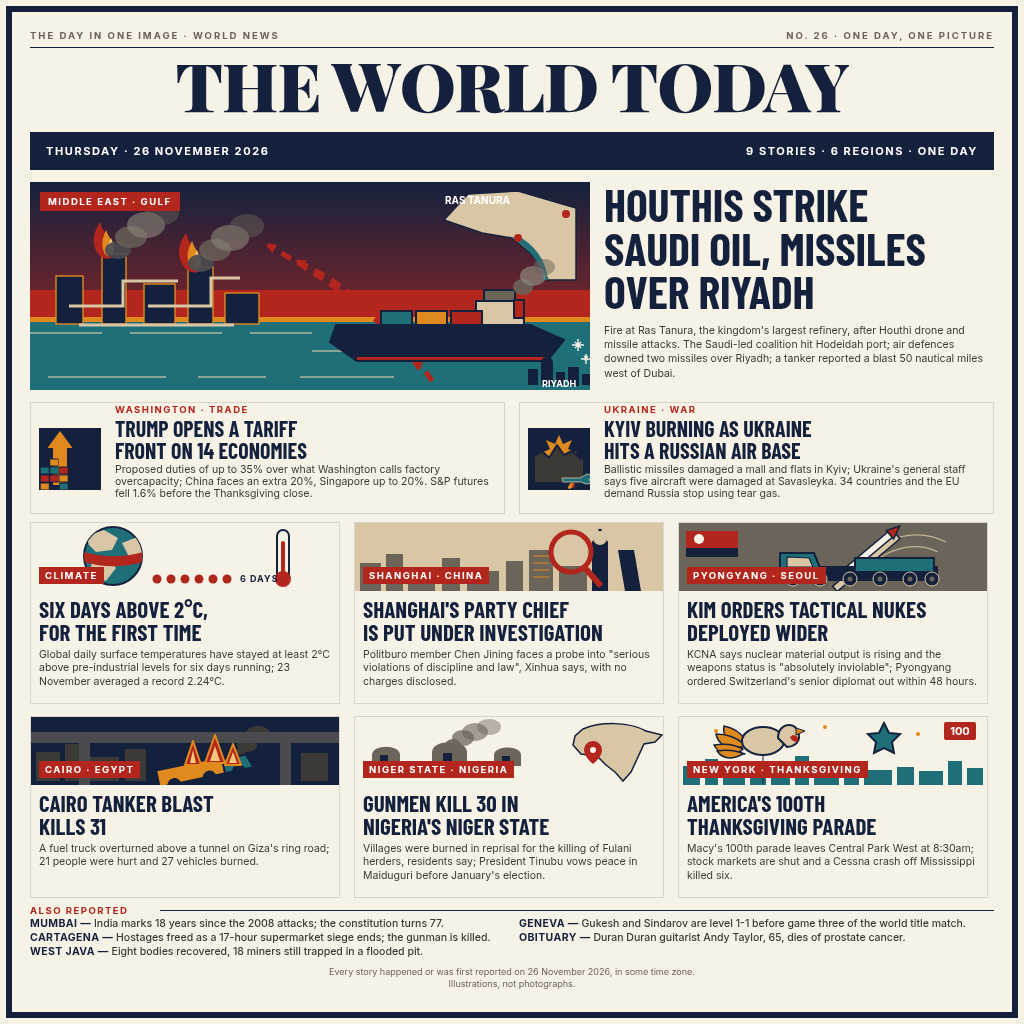
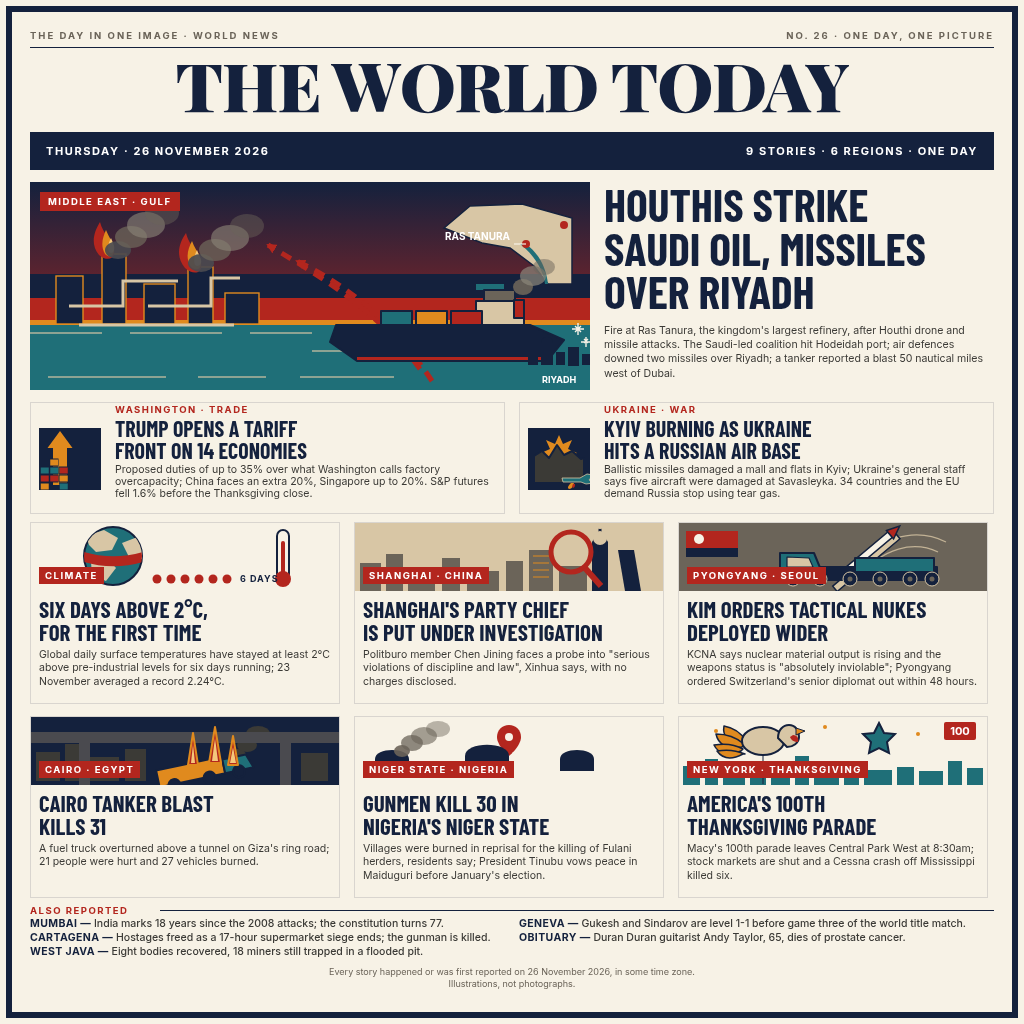
Finish hero map and skyline art pass
- Make the Gulf map geographic and move Riyadh fully into the sea band.
- Step the hero sky through navy, red and amber bands.
- Simplify Nigeria to huts and a pin, separate Thanksgiving motifs, and narrow Egypt's flames.

diff --git a/src/entry.html b/src/entry.html
@@ -66,16 +66,19 @@ svg text{font-family:Inter,Arial,sans-serif}
           <marker id="missileArrow" viewBox="0 0 10 10" refX="8" refY="5" markerWidth="10" markerHeight="10" orient="auto" markerUnits="userSpaceOnUse"><path d="M0 0 10 5 0 10Z" fill="#B3261E"/></marker>
         </defs>
         <rect width="560" height="208" fill="url(#gulfSky)"/>
-        <rect y="108" width="560" height="27" fill="#B3261E"/>
-        <rect y="135" width="560" height="5" fill="#E08A1E"/>
-        <rect y="140" width="560" height="68" fill="#1F6F78"/>
+        <rect y="92" width="560" height="24" fill="#14213D"/>
+        <rect y="116" width="560" height="22" fill="#B3261E"/>
+        <rect y="138" width="560" height="5" fill="#E08A1E"/>
+        <rect y="143" width="560" height="65" fill="#1F6F78"/>
         <g stroke="#D8C6A5" stroke-width="1.5" opacity=".8"><path d="M0 151h72m28 0h92m28 0h62"/><path d="M282 169h84m32 0h74"/><path d="M18 195h118m32 0h68m34 0h94"/></g>
         <g fill="none" stroke="#B3261E" stroke-width="5" stroke-dasharray="11 8" marker-end="url(#missileArrow)"><path d="M402 199C365 143 321 105 267 79"/><path d="M390 187C350 132 302 101 238 63"/></g>
-        <g transform="translate(410 4)">
-          <path d="M4 34 28 8 78 5 136 22V94H108L96 72 72 52 42 47Z" fill="#D8C6A5" stroke="#14213D" stroke-width="1.5"/>
-          <path d="M136 94h-28c-2-19-12-34-30-44l-6 2c20 12 29 27 31 42Z" fill="#1F6F78"/>
-          <g fill="#B3261E"><circle cx="78" cy="52" r="4"/><circle cx="126" cy="28" r="4"/></g>
-          <text x="5" y="18" fill="white" font-size="10" font-weight="700">RAS TANURA</text>
+        <g transform="translate(410 14)">
+          <path d="M4 32 30 10 82 8 132 22V88H108L94 70 70 52 42 47Z" fill="#D8C6A5" stroke="#14213D" stroke-width="1.5"/>
+          <path d="M132 88h-24c-2-18-10-31-22-40h-6c14 11 23 25 25 40Z" fill="#1F6F78"/>
+          <path d="M36 88h28v6H36Z" fill="#1F6F78"/>
+          <g fill="#B3261E"><circle cx="86" cy="48" r="4"/><circle cx="124" cy="29" r="4"/></g>
+          <path d="M74 48h12" stroke="#F7F2E6" stroke-width="1.2"/>
+          <text x="5" y="44" fill="white" font-size="10" font-weight="700">RAS TANURA</text>
         </g>
         <g fill="#14213D" stroke="#E08A1E" stroke-width="1.4">
           <rect x="26" y="94" width="27" height="48"/><rect x="72" y="72" width="24" height="70"/><rect x="114" y="102" width="31" height="40"/><rect x="158" y="85" width="25" height="57"/><rect x="195" y="111" width="34" height="31"/>
@@ -102,9 +105,9 @@ svg text{font-family:Inter,Arial,sans-serif}
           <path d="M484 118h10v18h-10Z" fill="#B3261E"/>
         </g>
         <g><ellipse cx="493" cy="105" rx="10" ry="8" fill="#6B6459" opacity=".9"/><ellipse cx="503" cy="94" rx="13" ry="10" fill="#8A8578" opacity=".72"/><ellipse cx="514" cy="85" rx="11" ry="8" fill="#6B6459" opacity=".5"/></g>
-        <g fill="#14213D"><rect x="498" y="187" width="10" height="16"/><rect x="511" y="181" width="12" height="22"/><rect x="526" y="190" width="9" height="13"/><rect x="538" y="185" width="11" height="19"/><rect x="552" y="192" width="8" height="11"/><path d="M511 181c0-8 12-8 12 0Z"/></g>
-        <g fill="none" stroke="#F7F2E6" stroke-width="1.4"><path d="M548 157v12m-6-6h12m-9-3 6 6m0-6-6 6"/><path d="M556 172v10m-5-5h10m-7-3 4 4m0-4-4 4"/></g>
-        <text x="512" y="205" fill="white" font-size="9" font-weight="700">RIYADH</text>
+        <g fill="#14213D"><rect x="498" y="167" width="10" height="16"/><rect x="511" y="161" width="12" height="22"/><rect x="526" y="170" width="9" height="13"/><rect x="538" y="165" width="11" height="19"/><rect x="552" y="172" width="8" height="11"/><path d="M511 161c0-8 12-8 12 0Z"/></g>
+        <g fill="none" stroke="#F7F2E6" stroke-width="1.4"><path d="M548 141v12m-6-6h12m-9-3 6 6m0-6-6 6"/><path d="M556 155v10m-5-5h10m-7-3 4 4m0-4-4 4"/></g>
+        <text x="512" y="201" fill="white" font-size="9" font-weight="700">RIYADH</text>
       </svg>
       <div class="chip">MIDDLE EAST · GULF</div>
     </div>
@@ -225,8 +228,8 @@ svg text{font-family:Inter,Arial,sans-serif}
             <path d="M126 44h67v17h-67Z" fill="#E08A1E"/><path d="M193 47h24l5 14h-29Z" fill="#1F6F78"/>
             <circle cx="141" cy="62" r="6" fill="#14213D"/><circle cx="177" cy="62" r="6" fill="#14213D"/><circle cx="207" cy="62" r="6" fill="#14213D"/>
           </g>
-          <g fill="#B3261E" stroke="#E08A1E" stroke-width="2" stroke-linejoin="round"><path d="M154 48 162 24 170 48Z"/><path d="M174 46 184 18 194 46Z"/><path d="M194 48 202 27 210 48Z"/></g>
-          <g fill="#F4C77B"><path d="M159 46 162 33 165 46Z"/><path d="M179 44 184 29 189 44Z"/><path d="M198 46 202 35 206 46Z"/></g>
+          <g fill="#B3261E" stroke="#E08A1E" stroke-width="2" stroke-linejoin="round"><path d="M157 48 162 16 167 48Z"/><path d="M178 46 184 10 190 46Z"/><path d="M197 48 202 19 207 48Z"/></g>
+          <g fill="#F4C77B"><path d="M160 46 162 27 164 46Z"/><path d="M181 44 184 21 187 44Z"/><path d="M199 46 202 30 205 46Z"/></g>
         </svg>
         <div class="chip bottom">CAIRO · EGYPT</div>
       </div>
@@ -235,13 +238,11 @@ svg text{font-family:Inter,Arial,sans-serif}
     </article>
     <article class="card">
       <div class="card-art">
-        <svg viewBox="0 0 308 68" role="img" aria-label="Three Nigerian huts with smoke and a cropped sand Africa silhouette with one red pin">
+        <svg viewBox="0 0 308 68" role="img" aria-label="Three Nigerian huts in silhouette with one smoke column and a red location pin">
           <rect width="308" height="68" fill="#F7F2E6"/>
-          <path d="M228 12c19-8 47-7 63 2l16 4-7 7-11 2-6 13-7 15-8 9-8-9-9-7-9-9-16-2-8-9 2-9Z" fill="#D8C6A5" stroke="#14213D" stroke-width="1.5"/>
-          <path d="M238 24c-5 0-9 4-9 9 0 7 9 14 9 14s9-7 9-14c0-5-4-9-9-9Z" fill="#B3261E"/><circle cx="238" cy="33" r="3" fill="#F7F2E6"/>
-          <g fill="#6B6459"><path d="M17 49V38c0-11 28-11 28 0v11Z"/><path d="M77 51V35c0-13 35-13 35 0v16Z"/><path d="M139 49V38c0-10 27-10 27 0v11Z"/></g>
-          <g fill="#14213D"><path d="M25 49V38h8v11Z"/><path d="M88 51V36h9v15Z"/><path d="M147 49V39h8v10Z"/></g>
-          <g fill="#6B6459"><ellipse cx="98" cy="28" rx="8" ry="6" opacity=".9"/><ellipse cx="108" cy="21" rx="11" ry="8" opacity=".75"/><ellipse cx="120" cy="15" rx="13" ry="9" opacity=".6"/><ellipse cx="134" cy="10" rx="12" ry="8" opacity=".45"/></g>
+          <path d="M154 8c-7 0-12 5-12 12 0 9 12 19 12 19s12-10 12-19c0-7-5-12-12-12Z" fill="#B3261E"/><circle cx="154" cy="20" r="4" fill="#F7F2E6"/>
+          <g fill="#14213D"><path d="M20 54V42c0-12 34-12 34 0v12Z"/><path d="M110 56V39c0-15 44-15 44 0v17Z"/><path d="M205 54V42c0-12 34-12 34 0v12Z"/></g>
+          <g fill="#6B6459"><ellipse cx="47" cy="34" rx="8" ry="6" opacity=".9"/><ellipse cx="57" cy="26" rx="11" ry="8" opacity=".75"/><ellipse cx="69" cy="19" rx="13" ry="9" opacity=".6"/><ellipse cx="83" cy="12" rx="12" ry="8" opacity=".45"/></g>
         </svg>
         <div class="chip bottom">NIGER STATE · NIGERIA</div>
       </div>
@@ -258,7 +259,7 @@ svg text{font-family:Inter,Arial,sans-serif}
           <ellipse cx="84" cy="24" rx="21" ry="14" fill="#D8C6A5" stroke="#14213D" stroke-width="2"/>
           <path d="M99 21c0-8 5-13 11-13s10 5 10 12c0 6-6 10-12 10Z" fill="#D8C6A5" stroke="#14213D" stroke-width="2"/>
           <path d="m117 11 9 3-9 4Z" fill="#E08A1E" stroke="#14213D" stroke-width="1"/><path d="M114 18c4 0 6 3 5 7-4 0-7-2-8-5Z" fill="#B3261E"/>
-          <path d="m205 6 5 10 11 1-8 8 2 11-10-5-10 5 2-11-8-8 11-1Z" fill="#1F6F78" stroke="#14213D" stroke-width="2"/>
+          <path d="m200 6 5 10 11 1-8 8 2 11-10-5-10 5 2-11-8-8 11-1Z" fill="#1F6F78" stroke="#14213D" stroke-width="2"/>
           <g fill="#E08A1E"><circle cx="37" cy="14" r="2"/><circle cx="146" cy="10" r="2"/><circle cx="239" cy="17" r="2"/></g>
           <rect x="265" y="5" width="32" height="18" rx="2" fill="#B3261E"/><text x="281" y="18" text-anchor="middle" fill="white" font-size="11" font-weight="700">100</text>
         </svg>
